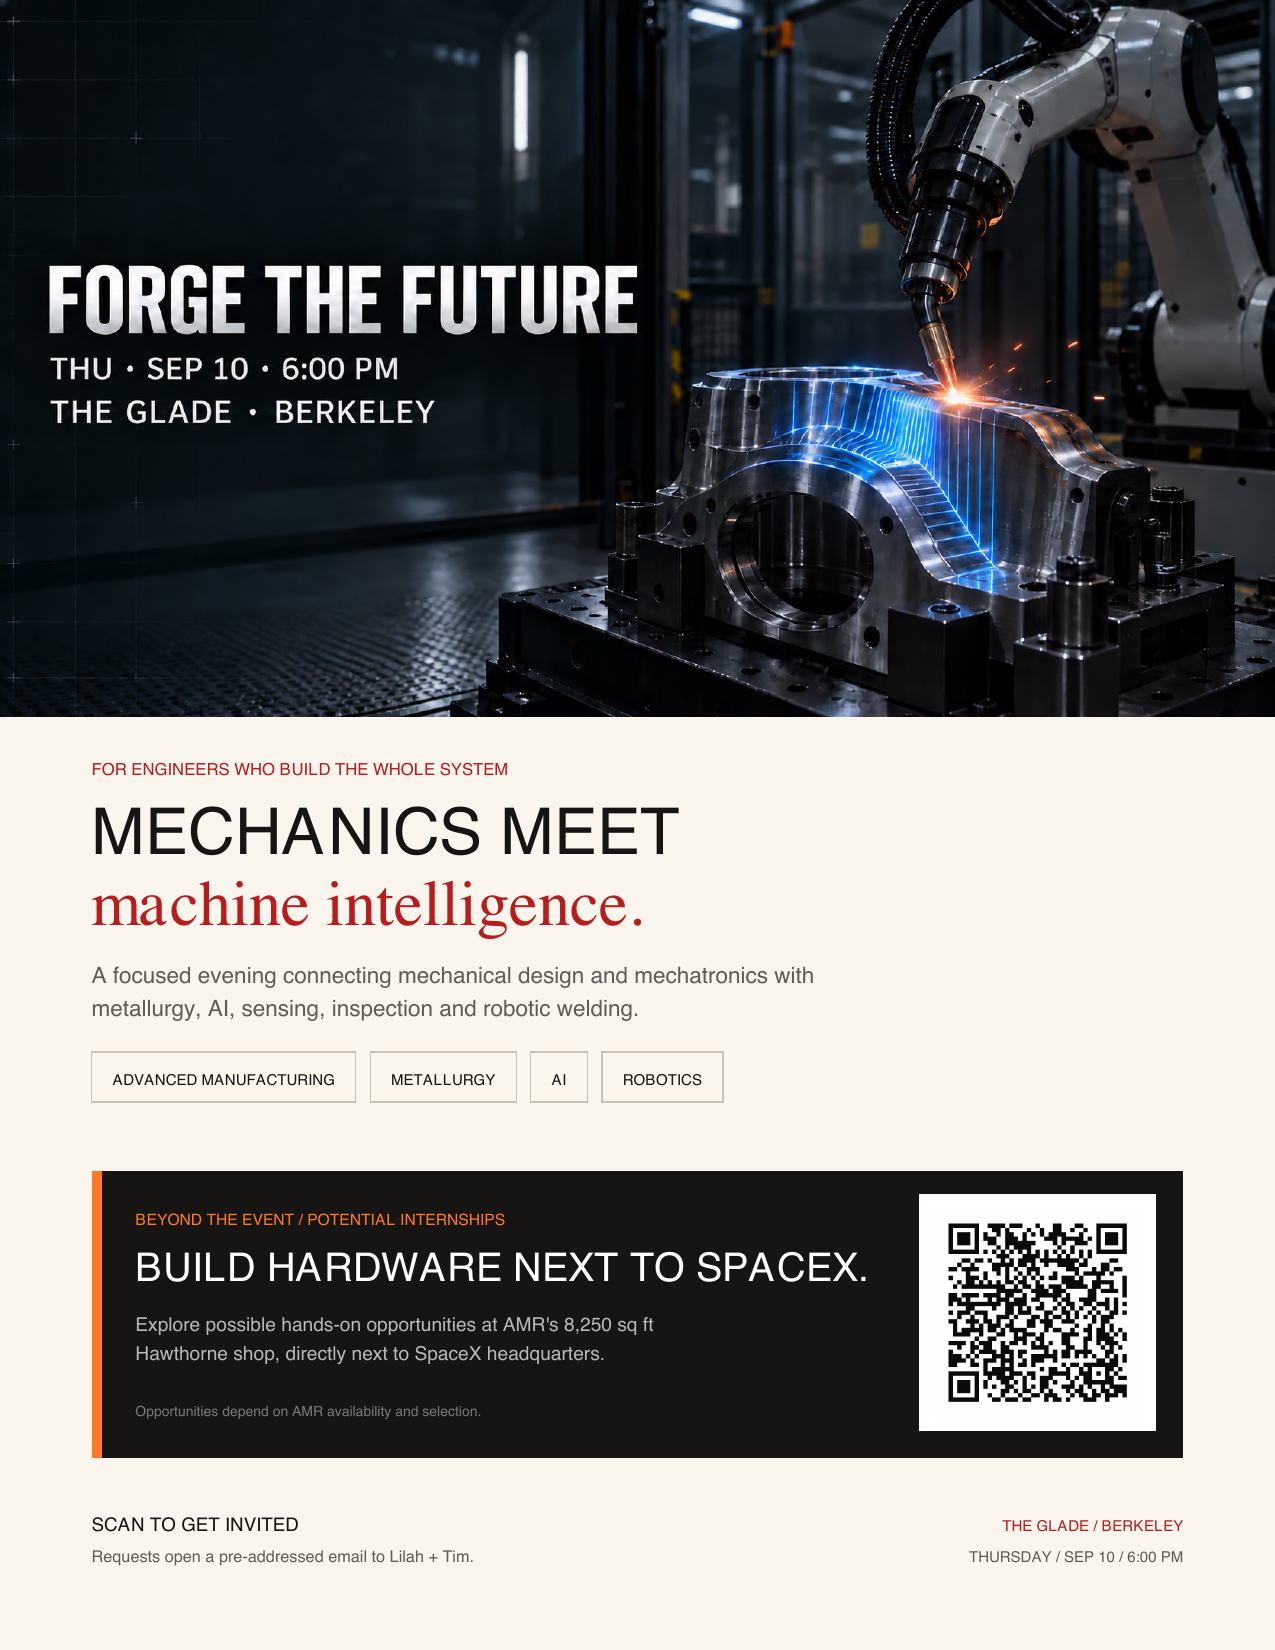
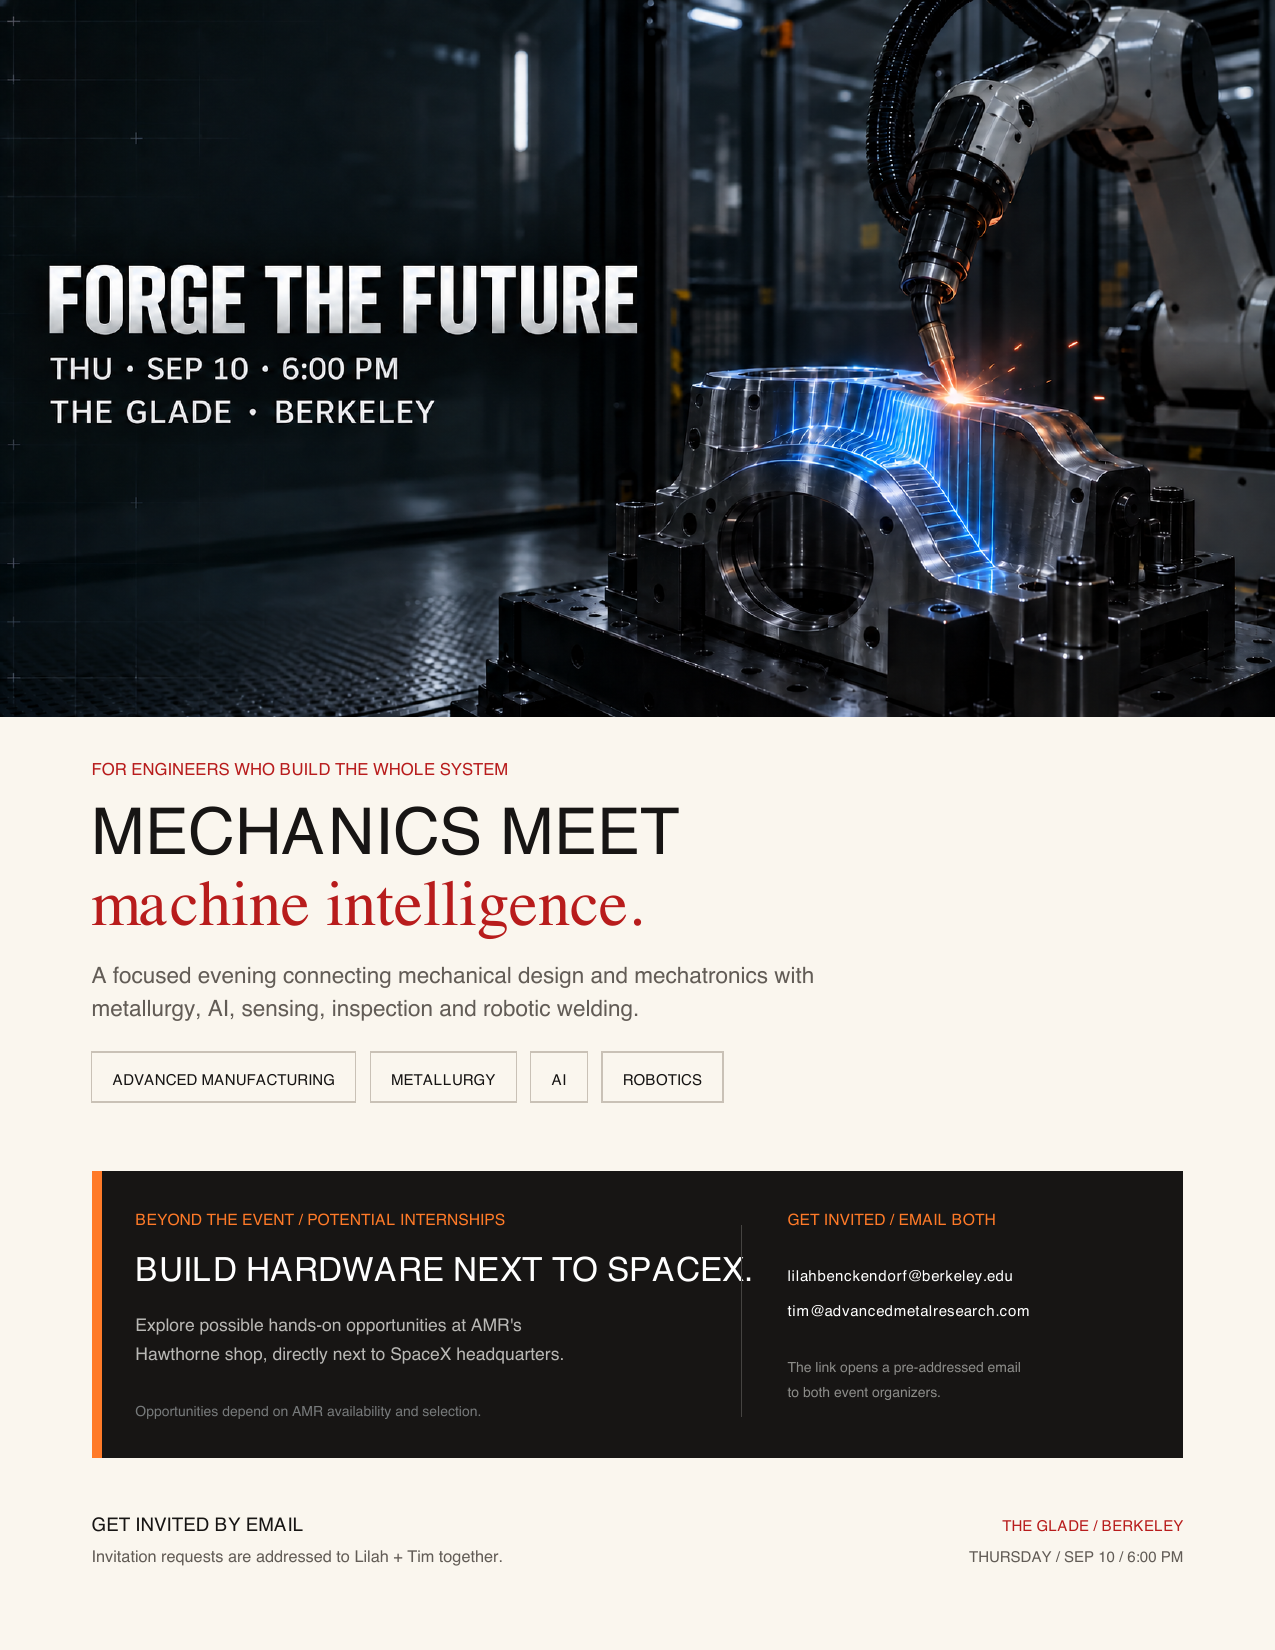
Remove QR code from event flyer

Changed region(s): [[0.0918, 0.7109, 0.9176, 0.8655], [0.0612, 0.8964, 0.2447, 0.9582], [0.2447, 0.9273, 0.3671, 0.9582]]

diff --git a/scripts/create_flyer.py b/scripts/create_flyer.py
@@ -10,8 +10,6 @@ ROOT = Path(__file__).resolve().parents[1]
 OUTPUT_DIR = ROOT / "output" / "pdf"
 OUTPUT_PATH = OUTPUT_DIR / "forge-the-future-flyer.pdf"
 HERO_PATH = ROOT / "public" / "hero.png"
-QR_PATH = ROOT / "public" / "forge-the-future-qr.png"
-EVENT_URL = "https://forge-the-future-amr.lilahbenckendorf.chatgpt.site"
 INVITE_URL = (
     "mailto:lilahbenckendorf@berkeley.edu,tim@advancedmetalresearch.com"
     "?subject=Invitation%20request%20-%20Forge%20the%20Future%20Berkeley"
@@ -92,28 +90,38 @@ def build_flyer() -> Path:
     c.setFont("Helvetica-Bold", 7.5)
     c.drawString(65, 204, "BEYOND THE EVENT / POTENTIAL INTERNSHIPS")
     c.setFillColor(WHITE)
-    c.setFont("Helvetica-Bold", 19)
+    c.setFont("Helvetica-Bold", 16)
     c.drawString(65, 177, "BUILD HARDWARE NEXT TO SPACEX.")
     c.setFillColor(HexColor("#B9B8B5"))
-    c.setFont("Helvetica", 9.2)
-    c.drawString(65, 153, "Explore possible hands-on opportunities at AMR's 8,250 sq ft")
+    c.setFont("Helvetica", 8.4)
+    c.drawString(65, 153, "Explore possible hands-on opportunities at AMR's")
     c.drawString(65, 139, "Hawthorne shop, directly next to SpaceX headquarters.")
     c.setFillColor(HexColor("#777A7B"))
     c.setFont("Helvetica", 6.7)
     c.drawString(65, 112, "Opportunities depend on AMR availability and selection.")
 
-    qr_x, qr_y, qr_size = 447, 111, 102
+    c.setStrokeColor(HexColor("#454341"))
+    c.setLineWidth(0.7)
+    c.line(356, 112, 356, 204)
+    c.setFillColor(COPPER)
+    c.setFont("Helvetica-Bold", 7.5)
+    c.drawString(378, 204, "GET INVITED / EMAIL BOTH")
     c.setFillColor(WHITE)
-    c.rect(qr_x - 6, qr_y - 6, qr_size + 12, qr_size + 12, stroke=0, fill=1)
-    c.drawImage(str(QR_PATH), qr_x, qr_y, width=qr_size, height=qr_size, mask="auto")
-    c.linkURL(EVENT_URL, (qr_x - 6, qr_y - 6, qr_x + qr_size + 6, qr_y + qr_size + 6), relative=0)
+    c.setFont("Helvetica-Bold", 7.2)
+    c.drawString(378, 177, "lilahbenckendorf@berkeley.edu")
+    c.drawString(378, 160, "tim@advancedmetalresearch.com")
+    c.setFillColor(HexColor("#8C8C89"))
+    c.setFont("Helvetica", 6.7)
+    c.drawString(378, 133, "The link opens a pre-addressed email")
+    c.drawString(378, 121, "to both event organizers.")
+    c.linkURL(INVITE_URL, (369, 108, 555, 214), relative=0)
 
     c.setFillColor(CHARCOAL)
     c.setFont("Helvetica-Bold", 9)
-    c.drawString(44, 57, "SCAN TO GET INVITED")
+    c.drawString(44, 57, "GET INVITED BY EMAIL")
     c.setFillColor(MUTED)
     c.setFont("Helvetica", 7.8)
-    c.drawString(44, 42, "Requests open a pre-addressed email to Lilah + Tim.")
+    c.drawString(44, 42, "Invitation requests are addressed to Lilah + Tim together.")
     c.setFillColor(RED)
     c.setFont("Helvetica-Bold", 7.2)
     c.drawRightString(568, 57, "THE GLADE / BERKELEY")
